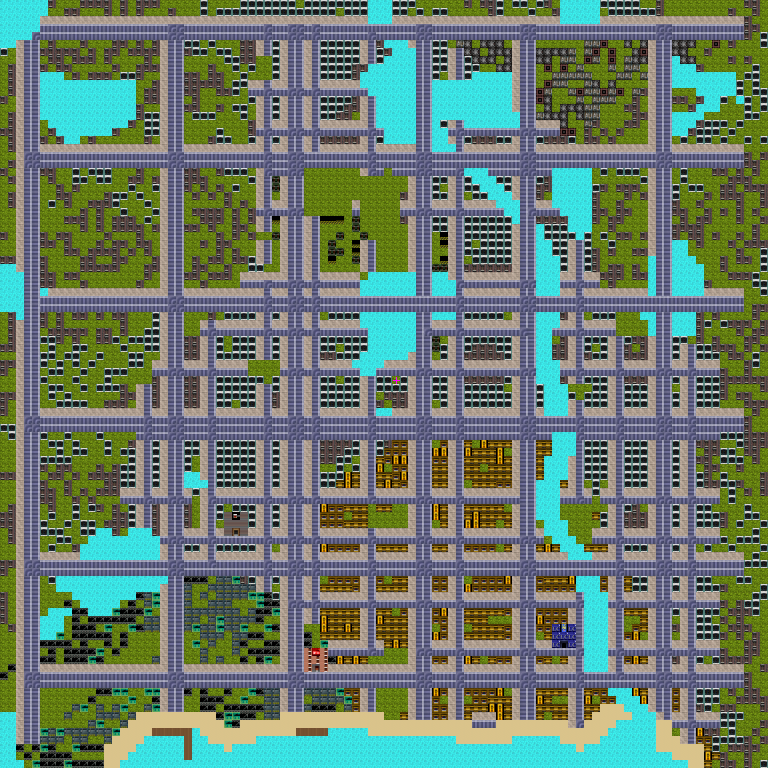
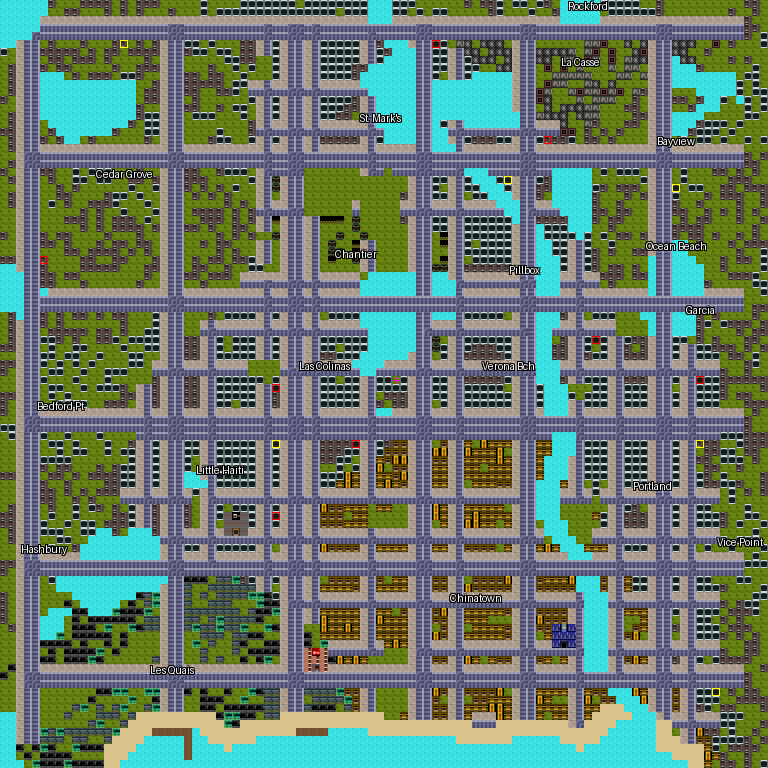
feat(poi): noms de quartiers GTA + services generes en bord de route
- Chaque district recoit un nom affiche (theme ou nom 'GTA' deterministe
  sans doublon) -> on est toujours dans un quartier nomme cote HUD ;
  libelles dessines sur le PNG (blanc cerne de noir, centre sur le district).
- Pay'n'Spray et AMU Nation : positions GENEREES par tools/pois.py (bord de
  route, cote sans trottoir, disseminees) et exportees dans citymap.h
  (citySprays[]/cityAmmus[]) -> fin du placement en dur + snap runtime.
- Tests: place_services (regle de bord-de-route, determinisme, no-overlap).

diff --git a/tools/pois.py b/tools/pois.py
@@ -160,6 +160,58 @@ STAMP_NAMES = {
 }
 
 
+# --- noms de quartiers GTA pour les districts SANS theme ---------------------
+# Pioche deterministe sans doublon sur une carte. <=12 car. (tient dans le HUD
+# 80 px). Inspires des quartiers de GTA III / Vice City / San Andreas.
+DISTRICT_NAMES = (
+    "Portland", "Staunton", "Shoreside", "Trenton", "Red Light",
+    "Harwood", "Hepburn Hts", "St. Mark's", "Torrington", "Bedford Pt",
+    "Cedar Grove", "Vice Point", "Ocean Beach", "Downtown", "Vinewood",
+    "Idlewood", "Las Colinas", "Rockford", "Verona Bch", "Washington",
+    "Pillbox", "Bayview", "Easton", "Belleville", "Westside",
+    "Little Haiti", "Vespucci", "El Corona", "Hashbury", "Garcia",
+)
+
+
+def assign_district_names(seed, assign, num_districts):
+    """Nom d'affichage pour CHAQUE district -> {district_id: nom}.
+
+    District theme -> nom du theme (Chinatown, Les Quais...) ; les autres ->
+    nom 'GTA' pioche dans DISTRICT_NAMES (deterministe, sans doublon). Garantit
+    qu'on est toujours dans un quartier nomme."""
+    rng = random.Random(seed + 60)
+    pool = list(DISTRICT_NAMES)
+    rng.shuffle(pool)
+    names, pi = {}, 0
+    for d in range(num_districts):
+        if d in assign:
+            names[d] = THEME_NAMES[assign[d]]
+        else:
+            names[d] = pool[pi % len(pool)]
+            pi += 1
+    return names
+
+
+def collect_district_labels(district_id, names, grid, tile_index, w, h):
+    """Etiquettes de quartiers pour le rendu PNG -> [(nom, cx, cy)] en TUILES.
+
+    Un libelle par district ayant des cellules terrestres ; (cx,cy) = centroide
+    des cellules de terre (l'eau est ignoree). Ordre stable par district_id."""
+    water = tile_index.get("water")
+    by_dist = {}
+    for i in range(w * h):
+        if grid[i] == water:
+            continue
+        by_dist.setdefault(district_id[i], []).append(i)
+    labels = []
+    for d in sorted(by_dist):
+        cells = by_dist[d]
+        cx = sum(c % w for c in cells) // len(cells)
+        cy = sum(c // w for c in cells) // len(cells)
+        labels.append((names.get(d, ""), cx, cy))
+    return labels
+
+
 def has_any_stamp(tile_index):
     """Vrai si au moins un stamp a toutes ses tuiles dans le tileset."""
     return any(all(t in tile_index for t in s["tiles"].values())
@@ -374,18 +426,25 @@ def _nearest_walkable(grid, cells, cx, cy, solid_index, prefer=None, w=0):
     return best
 
 
-def collect_pois(grid, theme, assign, placed, sea, tile_index, solid_index, w, h):
+def collect_pois(grid, theme, assign, placed, sea, tile_index, solid_index, w, h,
+                 district_id=None, names=None):
     """Construit la liste des POI exportables -> [dict(name,x0,y0,x1,y1,tx,ty)].
 
-    * quartiers (theme) : bbox des cellules du district + point-cible = la
-      cellule marchable la plus proche du centroide (le port privilegie un quai);
+    * quartiers thematiques (theme) : bbox des cellules du district + point-cible
+      = la cellule marchable la plus proche du centroide (le port privilegie un
+      quai);
+    * quartiers generiques (tout district non theme, si `district_id`+`names`
+      fournis) : meme principe sur les cellules de terre du district, nom 'GTA'
+      -> on est toujours dans un quartier nomme cote HUD ;
     * stamps : bbox du blueprint 3x3 + point-cible = la porte (case marchable
       bordant la route). `placed` = {nom: (x,y) coin haut-gauche | None}.
-    Tout en coordonnees de TUILES. Ordre stable : quartiers puis stamps."""
+    Tout en coordonnees de TUILES. Ordre stable : quartiers themes, quartiers
+    generiques, puis stamps (les stamps ont la plus petite bbox -> priorite HUD)."""
     out = []
     road_pav = {tile_index[n] for n in ("road_h", "road_v", "road_cross", "pavement")
                 if n in tile_index}
     dock = {tile_index["dock"]} if "dock" in tile_index else set()
+    water = tile_index.get("water")
 
     # quartiers thematiques
     by_theme = {}
@@ -406,6 +465,25 @@ def collect_pois(grid, theme, assign, placed, sea, tile_index, solid_index, w, h
             or (cx, cy)
         out.append(dict(name=THEME_NAMES[tid], x0=x0, y0=y0, x1=x1, y1=y1,
                         tx=tgt[0], ty=tgt[1]))
+
+    # quartiers generiques : tout district non theme avec des cellules de terre.
+    if district_id is not None and names:
+        by_dist = {}
+        for i in range(w * h):
+            d = district_id[i]
+            if d in assign or grid[i] == water:   # themes deja emis ; ignore l'eau
+                continue
+            by_dist.setdefault(d, []).append(i)
+        for d in sorted(by_dist):
+            cells = by_dist[d]
+            xs = [c % w for c in cells]
+            ys = [c // w for c in cells]
+            x0, y0, x1, y1 = min(xs), min(ys), max(xs), max(ys)
+            cx, cy = sum(xs) // len(xs), sum(ys) // len(ys)
+            tgt = _nearest_walkable(grid, cells, cx, cy, solid_index, road_pav, w) \
+                or (cx, cy)
+            out.append(dict(name=names[d], x0=x0, y0=y0, x1=x1, y1=y1,
+                            tx=tgt[0], ty=tgt[1]))
 
     # stamps : la porte est en bas-centre du blueprint 3x3
     drow, dcol = _door_cell(STAMP_BLUEPRINT)

diff --git a/tools/tests/test_pois.py b/tools/tests/test_pois.py
@@ -164,3 +164,39 @@ def test_pois_disabled_without_tiles_backward_compatible():
 def test_spawn_not_on_solid_with_pois():
     sx, sy, _ = _gen().spawn
     assert _gen().get(sx, sy) not in SI
+
+
+# ----- place_services (Pay'n'Spray / AMU Nation) ----------------------------
+
+def _is_road_edge_block(grid, w, x, y):
+    """Bloc building borde par une route du cote SANS trottoir (N d'une rue H
+    ou O d'une rue V) -- la regle de placement des services."""
+    if grid[y * w + x] not in (TI["building_a"], TI["building_b"]):
+        return False
+    rh, rv, rx = TI["road_h"], TI["road_v"], TI["road_cross"]
+    north = grid[(y - 1) * w + x] if y > 0 else None
+    west = grid[y * w + (x - 1)] if x > 0 else None
+    return north in (rh, rx) or west in (rv, rx)
+
+
+def test_place_services_count_rule_and_no_overlap():
+    c = _gen()
+    assert len(c.sprays) == pois.SPRAY_COUNT
+    assert len(c.ammus) == pois.AMMU_COUNT
+    for x, y in c.sprays + c.ammus:
+        assert _is_road_edge_block(c.grid, c.w, x, y), "service hors bord-de-route"
+    assert set(c.sprays).isdisjoint(c.ammus), "spray et ammu sur la meme case"
+
+
+def test_place_services_deterministic():
+    a, b = _gen(seed=11), _gen(seed=11)
+    assert a.sprays == b.sprays and a.ammus == b.ammus
+
+
+def test_place_services_empty_without_blocks():
+    # tileset sans building_a/b -> aucun candidat -> listes vides (pas d'erreur)
+    ti = {n: i for i, n in enumerate(("grass", "road_h", "road_v", "road_cross",
+                                      "pavement", "water"))}
+    grid = [ti["road_h"]] * (8 * 8)
+    sprays, ammus = pois.place_services(grid, ti, 7, 8, 8)
+    assert sprays == [] and ammus == []

diff --git a/tools/build_city.py b/tools/build_city.py
@@ -4,7 +4,7 @@ Lit le mapping nom->index depuis assets/tileset.csv (ordre = enum de assets.h).
 """
 import os
 import csv
-from PIL import Image, ImageDraw
+from PIL import Image, ImageDraw, ImageFont
 from tools.citydsl import compile_city, CityError
 
 TILESET_CSV = "assets/tileset.csv"
@@ -108,6 +108,24 @@ def render_png(city, names, tiles8_dir, out_png):
     for tx, ty in getattr(city, "ammus", []) or []:
         x0, y0 = tx * 8, ty * 8
         d.rectangle((x0, y0, x0 + 7, y0 + 7), outline=(255, 0, 0))
+    # libelles de quartiers (style GTA) : nom centre sur le centroide du
+    # district, en blanc cerne de noir pour rester lisible sur tout fond.
+    font = ImageFont.load_default()
+    for name, tcx, tcy in getattr(city, "districts", []) or []:
+        if not name:
+            continue
+        px, py = tcx * 8 + 4, tcy * 8 + 4
+        try:
+            l, t, r, b = d.textbbox((0, 0), name, font=font)
+            tw, th = r - l, b - t
+        except AttributeError:
+            tw, th = d.textsize(name, font=font)
+        ox, oy = px - tw // 2, py - th // 2
+        for dx in (-1, 0, 1):
+            for dy in (-1, 0, 1):
+                d.text((ox + dx, oy + dy), name, font=font, fill=(0, 0, 0))
+        d.text((ox, oy), name, font=font, fill=(255, 255, 255))
+
     # marqueur de spawn : croix magenta sur la tuile de depart
     sx, sy, _ = city.spawn
     cx, cy = sx * 8 + 4, sy * 8 + 4

diff --git a/gta/citymap_data.cpp b/gta/citymap_data.cpp
@@ -105,7 +105,41 @@ const CityPoi cityPois[CITY_NUM_POIS] = {
   { "Chinatown", 39, 51, 89, 95, 484, 596 },
   { "Chantier", 32, 21, 57, 44, 364, 244 },
   { "La Casse", 54, 3, 92, 16, 572, 36 },
+  { "Rockford", 50, 0, 95, 2, 604, 20 },
+  { "Little Haiti", 15, 40, 39, 76, 212, 468 },
+  { "Pillbox", 57, 26, 74, 38, 524, 268 },
+  { "Bayview", 71, 2, 95, 28, 668, 140 },
+  { "Hashbury", 0, 60, 15, 83, 36, 548 },
+  { "Verona Bch", 54, 39, 74, 54, 508, 364 },
+  { "Cedar Grove", 0, 0, 32, 44, 124, 164 },
+  { "Vice Point", 90, 38, 95, 95, 740, 556 },
+  { "Bedford Pt", 0, 41, 18, 60, 60, 412 },
+  { "Las Colinas", 28, 31, 55, 61, 324, 364 },
+  { "Ocean Beach", 74, 25, 95, 37, 668, 244 },
+  { "St. Mark's", 29, 0, 70, 29, 372, 116 },
+  { "Garcia", 75, 34, 95, 43, 700, 308 },
+  { "Portland", 71, 39, 89, 93, 652, 484 },
   { "Commissariat", 69, 78, 71, 80, 564, 652 },
   { "Hopital", 28, 64, 30, 66, 236, 540 },
   { "Pompiers", 38, 81, 40, 83, 316, 676 },
+};
+
+const CityService citySprays[CITY_NUM_SPRAYS] = {
+  { 89, 86 },
+  { 34, 55 },
+  { 63, 22 },
+  { 84, 23 },
+  { 15, 5 },
+  { 87, 55 },
+};
+
+const CityService cityAmmus[CITY_NUM_AMMUS] = {
+  { 74, 42 },
+  { 87, 47 },
+  { 68, 17 },
+  { 34, 64 },
+  { 44, 55 },
+  { 54, 5 },
+  { 34, 48 },
+  { 5, 32 },
 };

diff --git a/tools/citygen.py b/tools/citygen.py
@@ -509,8 +509,14 @@ def generate_into(city, seed, tile_index, solid_index,
                              tile_index, w, h)
 
     # 8d. POI exportables (nom + bbox + point-cible) pour le HUD et les missions.
+    # Chaque district recoit un nom (theme ou nom 'GTA') -> on est toujours dans
+    # un quartier nomme cote HUD. city.districts sert au libelle sur le PNG.
+    district_names = pois.assign_district_names(seed, assign, len(seed_type))
     city.pois = pois.collect_pois(city.grid, theme, assign, placed_stamps, sea,
-                                  tile_index, solid_index, w, h)
+                                  tile_index, solid_index, w, h,
+                                  district_id=district_id, names=district_names)
+    city.districts = pois.collect_district_labels(district_id, district_names,
+                                                  city.grid, tile_index, w, h)
 
     # 8e. services en bord de route (Pay'n'Spray / AMU Nation) : coordonnees
     # exportees (sprites procuduraux cote jeu, grille inchangee). Places en

diff --git a/gta/citymap.h b/gta/citymap.h
@@ -9,7 +9,7 @@
 #define PLAYER_START_Y 47
 #define PLAYER_START_DIR DIR_SOUTH
 
-#define CITY_NUM_POIS 7
+#define CITY_NUM_POIS 21
 
 // Point d'interet : bbox en TUILES (inclus) pour la detection
 // HUD, point-cible (tx,ty) en PX monde pour les missions/fleche.
@@ -20,3 +20,13 @@ struct CityPoi {
 };
 extern const uint8_t cityMap[CITY_H*CITY_W];
 extern const CityPoi cityPois[CITY_NUM_POIS];
+
+#define CITY_NUM_SPRAYS 6
+#define CITY_NUM_AMMUS 8
+
+// Service en bord de route : position en TUILES.
+struct CityService {
+  uint8_t tx, ty;
+};
+extern const CityService citySprays[CITY_NUM_SPRAYS];
+extern const CityService cityAmmus[CITY_NUM_AMMUS];

diff --git a/tools/citydsl.py b/tools/citydsl.py
@@ -28,6 +28,7 @@ class CompiledCity:
         self.pois = []     # [dict(name,x0,y0,x1,y1,tx,ty)] -- rempli par citygen
         self.sprays = []   # [(tx,ty)] Pay'n'Spray -- rempli par citygen
         self.ammus = []    # [(tx,ty)] AMU Nation -- rempli par citygen
+        self.districts = []  # [(nom,cx,cy)] libelles de quartiers -- rempli par citygen
 
     def _i(self, x, y):
         return y * self.w + x

diff --git a/POI.md b/POI.md
@@ -45,6 +45,15 @@ missions). Aucun n'est encore *interactif* au sens « j'achète / je vends ».
 | **Hôpital** | stamp 3×3 | repère + ancrage mission | **Soin** : entrer → vie restaurée (payant) | ✅ Fait |
 | **Pompiers** | stamp 3×3 | repère + ancrage mission | (camion de pompiers / mission incendie) | ⏳ idée |
 
+**Découpage complet en quartiers** : ✅ Fait. En plus des 4 quartiers
+thématiques, **chaque district** reçoit désormais un nom (style GTA :
+*Portland, St. Mark's, Vice Point, Ocean Beach…*) via
+`pois.assign_district_names` → un POI « quartier » par district dans
+`cityPois[]`. On est donc **toujours dans un quartier nommé** (bandeau HUD).
+Aucune modif du code jeu : `poiAtTile` choisit la plus petite bbox englobante,
+donc les stamps 3×3 (Hôpital…) gardent la priorité sur leur case. Les noms sont
+dessinés sur l'aperçu PNG (`render_png`).
+
 ---
 
 ## POI interactifs demandés
@@ -61,8 +70,10 @@ missions). Aucun n'est encore *interactif* au sens « j'achète / je vends ».
     solde). A/B pour naviguer, A acheter, MENU fermer. Geler le monde pendant.
   - Table de prix : `WEAPON_PRICE[WEAPON_COUNT]` + `AMMO_PRICE[WEAPON_COUNT]`.
 - **État** : ✅ Fait (V1 procédurale, sans nouvelles tuiles, comme Pay'n'Spray).
-  Armureries éparpillées (`AMMUS[]` dans `gta.ino`), snappées sur le **trottoir**
-  le plus proche (`findSidewalkSpot`) donc accessibles à pied ; devanture
+  **Positions générées** par `tools/pois.py` (`place_services`) : 8 armureries en
+  **bord de route, côté sans trottoir**, disséminées sur la carte, déterministes,
+  exportées dans `citymap.h` (`cityAmmus[]`) et lues telles quelles par `gta.ino`
+  (plus de placement aléatoire ni de snap runtime) ; devanture
   pixel-art (`drawAmmuShop`, auvent rouge + enseigne jaune). S'approcher et
   presser **A** ouvre l'**UI modale** (monde gelé) : liste des armes (icône 6×6 +
   nom + prix), HAUT/BAS choisit, **A** achète, **B/MENU** ferme. 1er achat = prix
@@ -89,13 +100,14 @@ missions). Aucun n'est encore *interactif* au sens « j'achète / je vends ».
     `wantedLevel` + une source qui le fait monter (crimes).
   - Nouveau POI/stamp `paint` (garage). À l'entrée en voiture : `carColor` =
     nouvelle teinte, `wantedLevel = 0`, petit fondu/son. Débit $.
-- **État** : ✅ Fait (V1 sans nouvelles tuiles). Plusieurs garages éparpillés
-  (`SPRAYS[]` dans `gta.ino`), snappés sur la **route** la plus proche
-  (`findRoadSpot`) donc accessibles en voiture ; dessin pixel-art procédural
-  (`drawSprayShop`, auvent rayé jaune/bleu). **Auto** : rouler dessus (recherche
-  active) → `repaintCar()` : nouvelle couleur, `wantedClear`, débit 50 $ (gratuit
-  si fauché, pour ne pas bloquer à 5 étoiles). **Positions provisoires** (grille
-  large) — à replacer aux bons spots quand le client les aura choisis.
+- **État** : ✅ Fait (V1 sans nouvelles tuiles). **Positions générées** par
+  `tools/pois.py` (`place_services`) : 6 garages en **bord de route, côté sans
+  trottoir**, bien dispersés, déterministes, exportés dans `citymap.h`
+  (`citySprays[]`) et lus tels quels par `gta.ino` (plus de placement aléatoire
+  ni de snap runtime). Dessin pixel-art procédural (`drawSprayShop`, auvent rayé
+  jaune/bleu). **Auto** : rouler dessus (recherche active) → `repaintCar()` :
+  nouvelle couleur, `wantedClear`, débit 50 $ (gratuit si fauché, pour ne pas
+  bloquer à 5 étoiles).
 
 ### 4. La Casse — grue & broyeur ♻ *(quartier déjà présent)*
 - **Service** : amener sa caisse sur une zone marquée → une **grue** la saisit et
@@ -158,5 +170,6 @@ Idées dans l'esprit « acheter un service/bien » ou « vendre pour gagner $ »
 2. ~~**AMU Nation**~~ ✅ Fait (V1 procédurale + UI d'achat modale).
 3. ~~**La Casse**~~ ✅ Fait (grue/broyeur, prime selon `carHp`).
 4. ~~**Récompenses de mission**~~ ✅ Fait (primes en $, boucle économique complète).
-5. **Pay'n'Spray** : remplacer les positions provisoires par les bons spots, et
-   éventuellement passer à un vrai stamp/tuiles dédiés (cf. POI #3).
+5. ~~**Pay'n'Spray** : remplacer les positions provisoires par les bons spots~~
+   ✅ Fait (positions générées en bord de route, côté sans trottoir). Reste
+   éventuellement : passer à un vrai stamp/tuiles dédiés (cf. POI #3).
